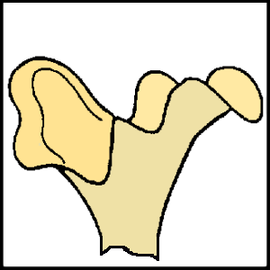
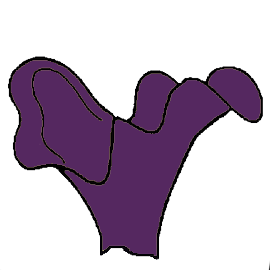
FORMULARIO BUSQUEDA
Cambios en el formulario, imagenes retocadas, logotipo nuevo.

diff --git a/prueba.html b/prueba.html
@@ -3,11 +3,26 @@
 <head>
 	<script src="prueba.js"></script>
 	<title>PRUEBA</title>
+	<link rel="stylesheet" type="text/css" media="screen" href="Estiloform.css" />
+	<link href="https://fonts.googleapis.com/css?family=Montserrat:500,800,900" rel="stylesheet">
 </head>
 <body>
-	<div>
-		<h1>Buscador de setas por color de esporas</h1>	
-		<select id="color">
+	<div class="imageninicio">
+			<img src="../hackaton-ampersand/imagenes/LOGOTYPE.png" width="200" alt="">	
+	</div>
+
+
+	<div class="main">
+		
+			<div id="caja-titulo" >
+					<h1>FILTRO MUSHPICK</h1>
+			</div>
+			<br>
+
+		<div class="selector">
+		<p>Color Himenio</p>
+		
+		<select >
 			<option value="Q23444">Blanco</option>
  			<option value="Q23445">Negro</option>
   			<option value="Q47071">Marron</option>
@@ -21,23 +36,27 @@
   			<option value="Q23445">Bronceado</option>
   			<option value="Q943">Amarillo</option>
 		</select>
-
-		<br>
-
-		<label for="hongo-conico"><img src="img/Q19887954.png" width="80"></label>
-		<label for="hongo-convexo"><img src="img/Q14544535.png" width="80"></label>
-		<label for="seta-deprimida"><img src="img/Q19887955.png" width="80"></label>
-		<label for="plana-setas"><img src="img/Q19887957.png" width="80"></label>
-		<label for="infundi"><img src="img/Q19887958.png" width="80"></label>
-		<label for="seta-offset"><img src="img/Q14544541.png" width="80"></label>
-		<label for="seta-ovada"><img src="img/Q19887961.png" width="80"></label>
-		<label for="tapa-hongo"><img src="img/Q19887964.png" width="80"></label>
-		<label for="sin-tapa"><img src="img/Q19887965.png" width="80"></label>
-		<label for="concavo-plano"><img src="img/Q23058598.png" width="80"></label>
+		</div>
 
 
 		<br>
 
+	<div class="labels">
+			<p>Forma de la copa</p>
+		<label for="hongo-conico"><img src="img/Q19887954.png" ></label>
+		<label for="hongo-convexo"><img src="img/Q14544535.png" ></label>
+		<label for="seta-deprimida"><img src="img/Q19887955.png" ></label>
+		<label for="plana-setas"><img src="img/Q19887957.png" ></label>
+		<label for="infundi"><img src="img/Q19887958.png" ></label>
+		<label for="seta-offset"><img src="img/Q14544541.png" ></label>
+		<label for="seta-ovada"><img src="img/Q19887961.png" ></label>
+		<label for="tapa-hongo"><img src="img/Q19887964.png" ></label>
+		<label for="sin-tapa"><img src="img/Q19887965.png" ></label>
+		<label for="concavo-plano"><img src="img/Q23058598.png" ></label>
+	</div>
+
+		<br>
+	<div class="radiobuttons">
 		<input id="hongo-conico" type="radio" name="shape" 		value="Q19887954" checked> 	Tapa de hongo cónico</input>
 		<br>
   		<input id="hongo-convexo" type="radio" name="shape" 	value="Q14544535" 	> 		Tapa de hongo convexo</input>
@@ -57,7 +76,7 @@
   		<input id="sin-tapa" type="radio" name="shape" 			value="Q19887965" 	> 		Sin tapa de seta</input>
   		<br>
   		<input id="concavo-plano" type="radio" name="shape" 	value="Q23058598" 	> 		Cóncavo al plano</input>
-  		
+	</div>
 
 
 		<!--

diff --git a/selector.js b/selector.js
@@ -1,0 +1,72 @@
+var x, i, j, selElmnt, a, b, c;
+/*look for any elements with the class "custom-select":*/
+x = document.getElementsByClassName("custom-select");
+for (i = 0; i < x.length; i++) {
+  selElmnt = x[i].getElementsByTagName("select")[0];
+  /*for each element, create a new DIV that will act as the selected item:*/
+  a = document.createElement("DIV");
+  a.setAttribute("class", "select-selected");
+  a.innerHTML = selElmnt.options[selElmnt.selectedIndex].innerHTML;
+  x[i].appendChild(a);
+  /*for each element, create a new DIV that will contain the option list:*/
+  b = document.createElement("DIV");
+  b.setAttribute("class", "select-items select-hide");
+  for (j = 1; j < selElmnt.length; j++) {
+    /*for each option in the original select element,
+    create a new DIV that will act as an option item:*/
+    c = document.createElement("DIV");
+    c.innerHTML = selElmnt.options[j].innerHTML;
+    c.addEventListener("click", function(e) {
+        /*when an item is clicked, update the original select box,
+        and the selected item:*/
+        var y, i, k, s, h;
+        s = this.parentNode.parentNode.getElementsByTagName("select")[0];
+        h = this.parentNode.previousSibling;
+        for (i = 0; i < s.length; i++) {
+          if (s.options[i].innerHTML == this.innerHTML) {
+            s.selectedIndex = i;
+            h.innerHTML = this.innerHTML;
+            y = this.parentNode.getElementsByClassName("same-as-selected");
+            for (k = 0; k < y.length; k++) {
+              y[k].removeAttribute("class");
+            }
+            this.setAttribute("class", "same-as-selected");
+            break;
+          }
+        }
+        h.click();
+    });
+    b.appendChild(c);
+  }
+  x[i].appendChild(b);
+  a.addEventListener("click", function(e) {
+      /*when the select box is clicked, close any other select boxes,
+      and open/close the current select box:*/
+      e.stopPropagation();
+      closeAllSelect(this);
+      this.nextSibling.classList.toggle("select-hide");
+      this.classList.toggle("select-arrow-active");
+  });
+}
+function closeAllSelect(elmnt) {
+  /*a function that will close all select boxes in the document,
+  except the current select box:*/
+  var x, y, i, arrNo = [];
+  x = document.getElementsByClassName("select-items");
+  y = document.getElementsByClassName("select-selected");
+  for (i = 0; i < y.length; i++) {
+    if (elmnt == y[i]) {
+      arrNo.push(i)
+    } else {
+      y[i].classList.remove("select-arrow-active");
+    }
+  }
+  for (i = 0; i < x.length; i++) {
+    if (arrNo.indexOf(i)) {
+      x[i].classList.add("select-hide");
+    }
+  }
+}
+/*if the user clicks anywhere outside the select box,
+then close all select boxes:*/
+document.addEventListener("click", closeAllSelect);

diff --git a/Estiloform.css b/Estiloform.css
@@ -1,0 +1,75 @@
+body{
+    margin: 0px;
+    background-color: whitesmoke;
+    
+}
+
+p{
+    font-family: 'Montserrat', sans-serif;
+    font-weight: 500;
+}
+
+div.imageninicio{
+    padding: 40px;
+    margin-bottom: 40px;
+    box-shadow: 0 4px 2px 3px gray;
+
+}
+
+div.main{
+    background-color: red;
+    display: flex;
+    flex-wrap: wrap;
+    flex-direction: column;
+    justify-content: center;
+    padding-left: 150px;
+    padding-right: 150px;
+}
+
+
+h1{
+    font-family: 'Montserrat', sans-serif;
+    font-weight: 900;
+}
+
+#caja-titulo{
+   
+}
+
+select #color{
+    background-color: grey;
+}
+
+div.labels > label > img{
+    width: 100px;
+    margin: 10px;
+    border-radius: 80px;
+    
+}
+
+div.labels > label > img:hover{
+    width: 100px;
+    margin: 10px;
+    background-color: grey;
+    border-radius: 80px;
+    
+}
+
+
+div.selector{
+    margin-top: 30px;
+    margin-bottom: 30px;
+    display: flex;
+    flex-direction: column;
+
+}
+
+select{
+    font-family: 'Montserrat', sans-serif;
+    font-weight: 500; 
+}
+
+
+
+
+/*-----------------------------------------*/

diff --git a/prueba.js b/prueba.js
@@ -66,7 +66,7 @@ function prueba(){
   ?Agaricales wdt:P787 wd:` + color + `.
   
   ?Agaricales wdt:P784 ?mushroom_cap_shape.
-  ?Agaricales wdt:P784 wd:` + shape + `.++
+  ?Agaricales wdt:P784 wd:` + shape + `.
   
  
   OPTIONAL { ?Agaricales wdt:P789 ?comestibilidad. }
